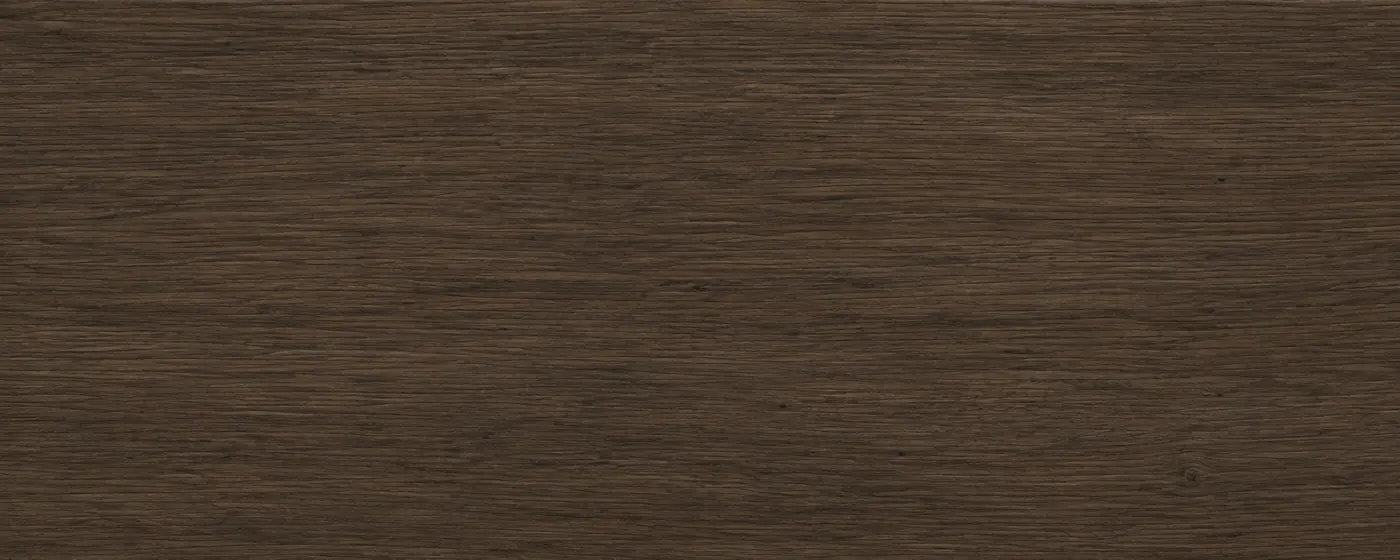
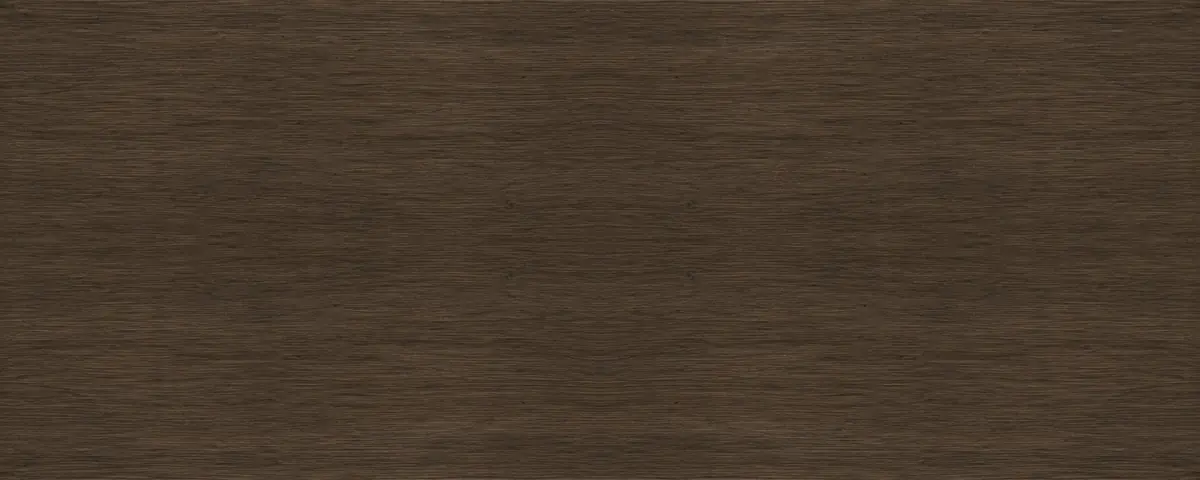
壁の継ぎ目と場面の境目をなくし、全体をつなげる
横線が出ていた原因は二つあった。

1. 素材画像の継ぎ目
   「継ぎ目なし」で作った画像が実際にはつながっておらず、繰り返すたびに線が出ていた。
   壁は上下端の差が16.01（画像内の行間の差は0.94）で、17倍の段差があった。
   上下・左右に鏡像を足してタイルを作り直し、差を1.5以下にした。
   タイルに2回分が入るため、背景サイズを倍にしている。

2. 床が終わって壁に戻る境目
   壁と床の境は部屋のかたちだが、床が途中で切れて壁に戻る境目は実際の部屋にはない。
   床の奥を暗がりに落とし、場面の変わり目を暗がりでつないで線を消した。
   売り場の間の余白も広げている（要件の「テーマの区切りには余白を設け」）。

境目の行間の差：壁1.11／通路0.50／入口0.49／フッター0.37（ページ全体の中央値0.23）。

暗い背表紙の分離は維持（背板1.60:1、縁の光1.52:1）。画像は合計399KB。

diff --git a/styles/shelf.css b/styles/shelf.css
@@ -4,7 +4,7 @@
    立体感は「什器→床」「本→棚板」「本→隣の本」の三種の影で出す。
    ============================================================ */
 
-.market{ position:relative; padding-top:clamp(30px,7vh,58px); }
+.market{ position:relative; padding-top:clamp(120px,20vh,230px); }
 
 .market__sign{
   position:relative; z-index:3;
@@ -33,10 +33,10 @@
       rgba(0,0,0,.60) 0 2px,
       rgba(201,168,118,.12) 2px 3px,
       transparent 3px 30px),
-    linear-gradient(180deg, rgba(20,13,8,.06) 0%, rgba(18,12,8,.26) 54%, rgba(12,8,5,.62) 100%),
+    linear-gradient(180deg, rgba(20,13,8,.06) 0%, rgba(18,12,8,.24) 46%, rgba(11,8,6,.72) 82%, #0B0806 100%),
     url("../assets/images/wood-floor.webp");
   background-repeat:no-repeat, no-repeat, repeat;
-  background-size:auto, auto, 420px auto;
+  background-size:auto, auto, 840px auto;
   box-shadow:inset 0 3px 12px -3px rgba(0,0,0,.8);
 }
 /* 床板。手前に向かって間隔が広がるように見せる */
@@ -60,7 +60,7 @@
     linear-gradient(180deg, rgba(16,11,7,.34) 0%, rgba(16,11,7,.52) 44%, rgba(10,7,4,.7) 100%),
     url("../assets/images/wood-board.webp");
   background-repeat:no-repeat, no-repeat, repeat;
-  background-size:auto, auto, 340px auto;
+  background-size:auto, auto, 680px auto;
   border-radius:2px;
   padding:var(--board) var(--board) 0;
   box-shadow:
@@ -83,7 +83,7 @@
       rgba(0,0,0,.80) 100%),
     url("../assets/images/wood-board.webp");
   background-repeat:no-repeat, repeat;
-  background-size:auto, 340px auto;
+  background-size:auto, 680px auto;
   box-shadow:
     0 -7px 12px -6px rgba(0,0,0,.72),
     inset 0 1px 0 rgba(201,168,118,.24);
@@ -103,7 +103,7 @@
     linear-gradient(180deg, rgba(22,15,10,.30) 0%, rgba(22,15,10,.34) 100%),
     url("../assets/images/wood-backboard.webp");
   background-repeat:no-repeat, no-repeat, repeat;
-  background-size:auto, auto, 300px auto;
+  background-size:auto, auto, 600px auto;
 }
 
 /* --- 背表紙 -------------------------------------------------
@@ -224,7 +224,7 @@
       rgba(0,0,0,.78) 100%),
     url("../assets/images/wood-board.webp");
   background-repeat:no-repeat, repeat;
-  background-size:auto, 340px auto;
+  background-size:auto, 680px auto;
   box-shadow:
     inset 0 2px 0 rgba(201,168,118,.34),
     inset 0 -1px 0 rgba(0,0,0,.6),
@@ -348,5 +348,33 @@
       rgba(255,255,255,.02) 0 1px,
       rgba(0,0,0,.022) 1px 3px);
   filter:blur(.4px);
+  pointer-events:none;
+}
+
+
+/* --- 場面の変わり目 -------------------------------------------
+   壁と床の境目は部屋のかたちだが、床が終わって壁に戻る境目は
+   実際の部屋には存在しない。線を出さず、暗がりを挟んでつなぐ。
+   什器（z-index 1・2）より下、床（z-index 0・先に描かれる）より上に置く。 */
+.market::before,
+.aisle::before{
+  content:"";
+  position:absolute; z-index:0;
+  left:50%; top:0;
+  width:100vw; height:clamp(96px,16vh,200px);
+  transform:translateX(-50%);
+  background:linear-gradient(180deg,
+    #0B0806 0%, rgba(11,8,6,.72) 34%, rgba(11,8,6,.24) 68%, transparent 100%);
+  pointer-events:none;
+}
+.market::after,
+.aisle::after{
+  content:"";
+  position:absolute; z-index:0;
+  left:50%; bottom:0;
+  width:100vw; height:clamp(96px,16vh,200px);
+  transform:translateX(-50%);
+  background:linear-gradient(0deg,
+    #0B0806 0%, rgba(11,8,6,.72) 34%, rgba(11,8,6,.24) 68%, transparent 100%);
   pointer-events:none;
 }

diff --git a/styles/layout.css b/styles/layout.css
@@ -31,7 +31,7 @@
     linear-gradient(180deg,
       transparent 58%,
       rgba(22,15,10,.52) 82%,
-      var(--room-wall) 100%),
+      #0B0806 100%),
     url("../assets/images/cottage-in-forest.webp") center 42% / cover no-repeat;
   text-align:center;
 }
@@ -53,7 +53,7 @@
     linear-gradient(180deg, rgba(14,10,7,.60) 0%, rgba(14,10,7,.70) 52%, rgba(14,10,7,.62) 100%),
     url("../assets/images/wood-wall.webp");
   background-repeat:no-repeat, no-repeat, repeat;
-  background-size:auto, auto, 300px 300px;
+  background-size:auto, auto, 300px 600px;
 }
 
 /* --- 通路（売り場の区切り） ----------------------------------- */
@@ -114,7 +114,7 @@
       rgba(0,0,0,.8) 100%),
     url("../assets/images/wood-board.webp");
   background-repeat:no-repeat, repeat;
-  background-size:auto, 340px auto;
+  background-size:auto, 680px auto;
   box-shadow:
     inset 0 1px 0 rgba(201,168,118,.34),
     0 8px 12px -7px rgba(0,0,0,.85);
@@ -148,7 +148,7 @@
 .foot{
   position:relative;
   padding:clamp(64px,14vh,116px) 0 clamp(44px,9vh,72px);
-  background:linear-gradient(180deg, var(--room-wall) 0%, #1b1410 100%);
+  background:linear-gradient(180deg, #0B0806 0%, #14100C 34%, #1b1410 100%);
   text-align:center;
 }
 .foot__name{
